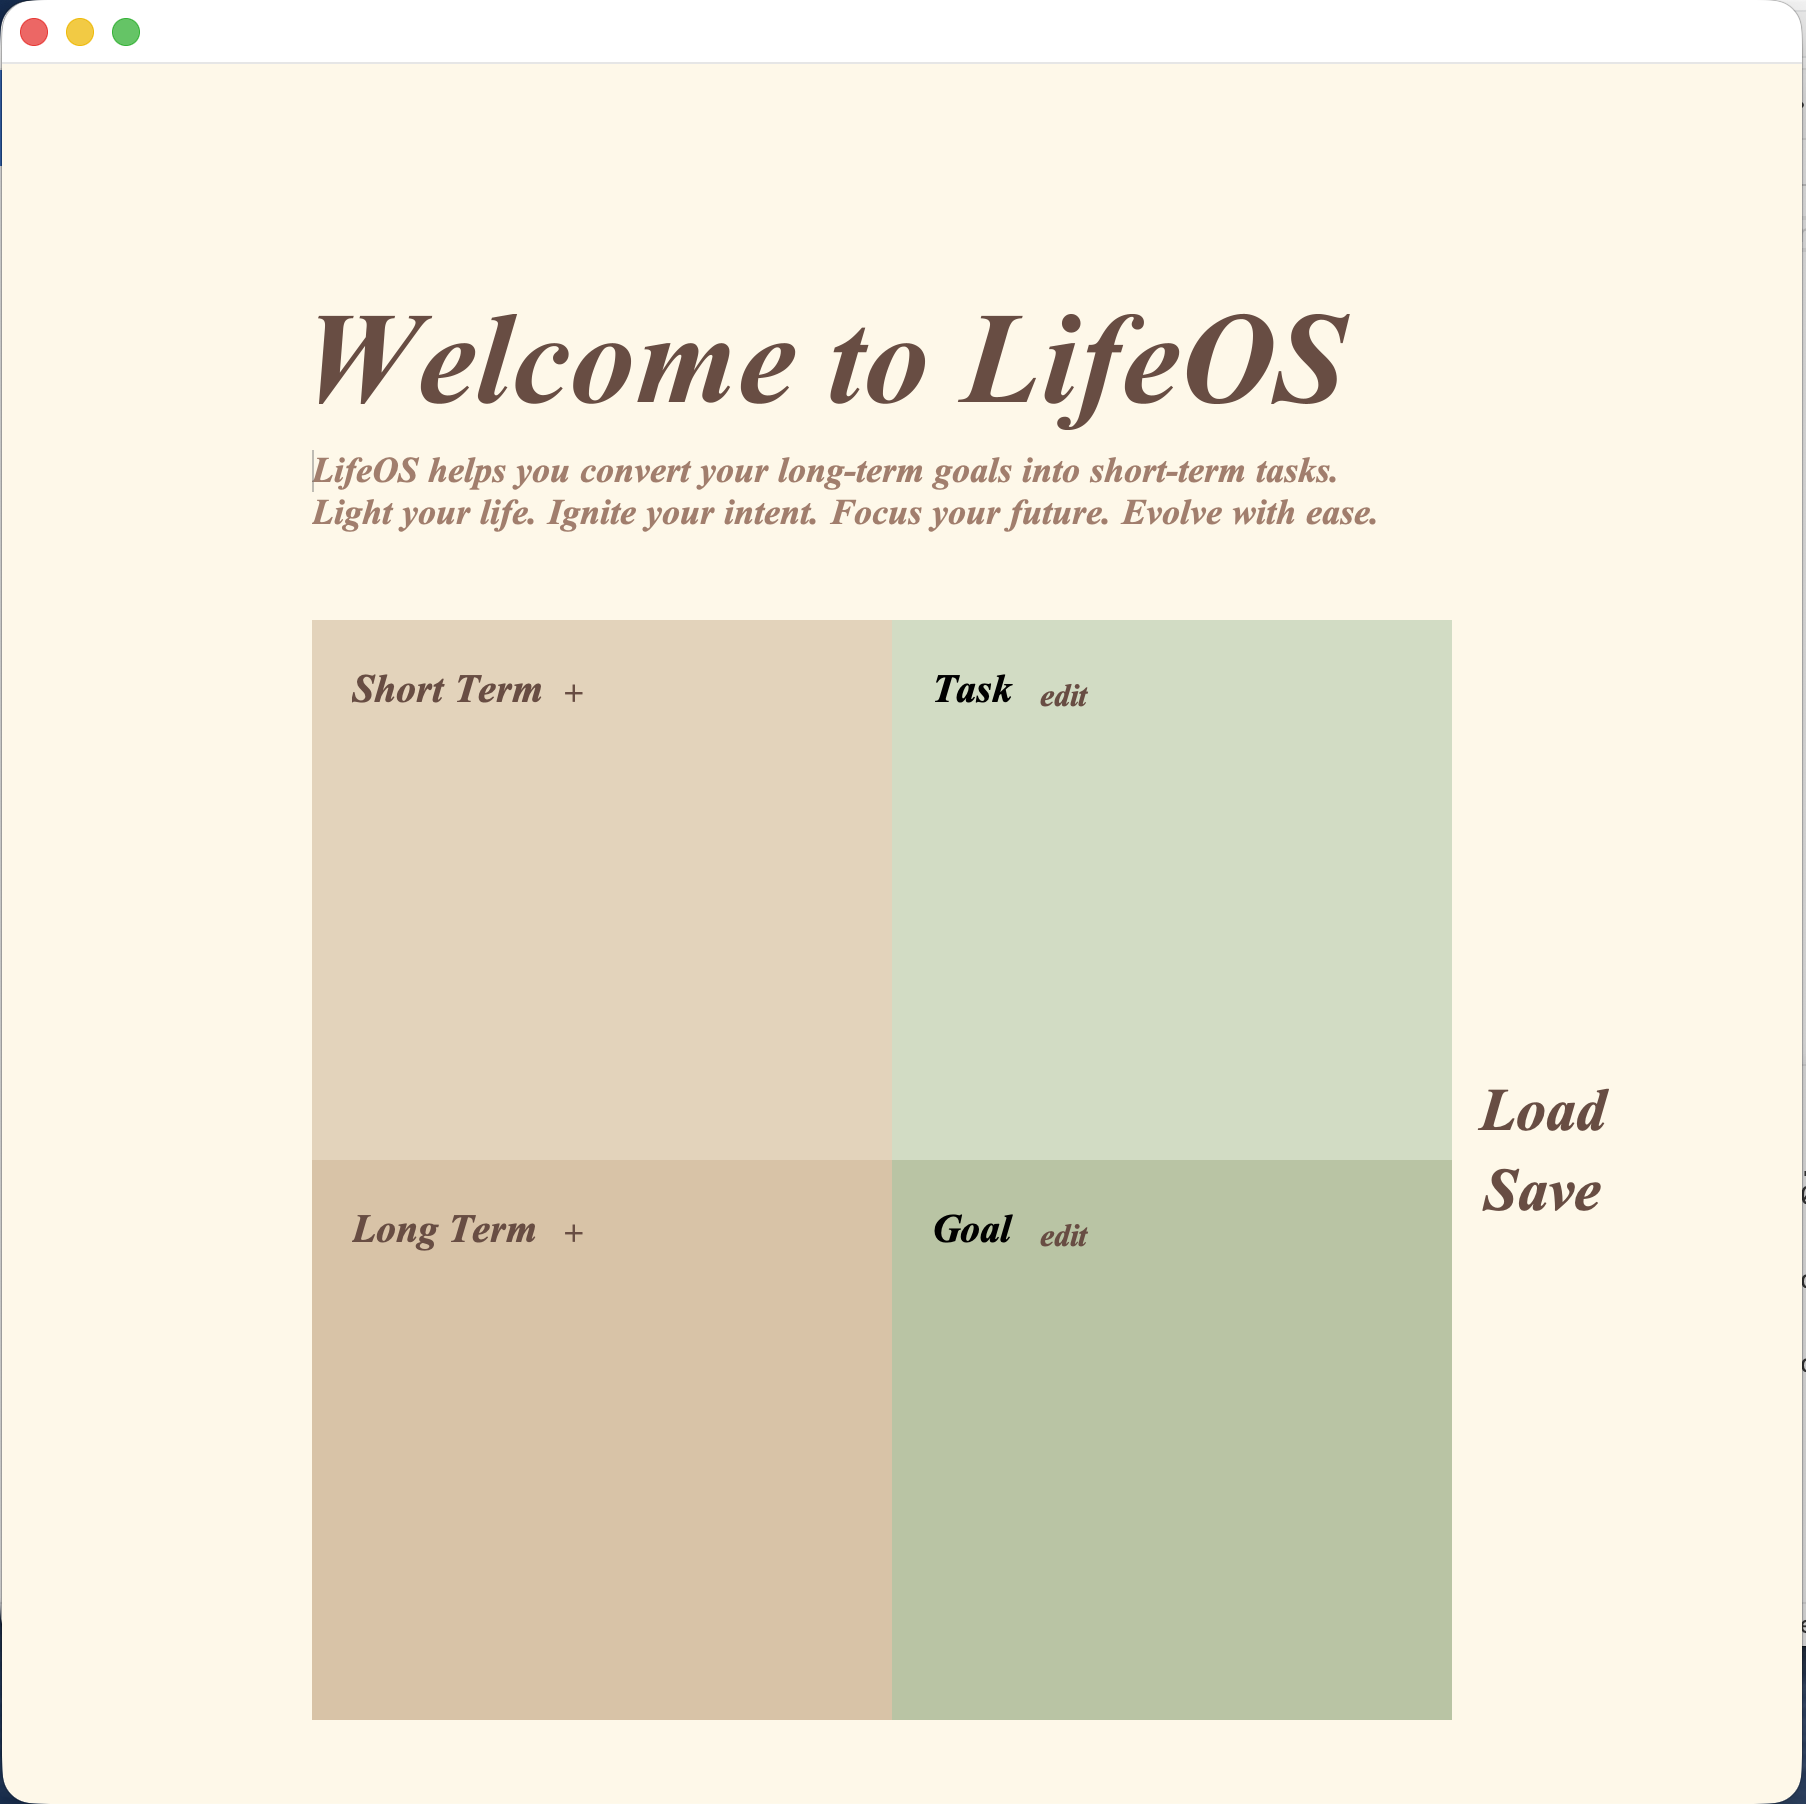
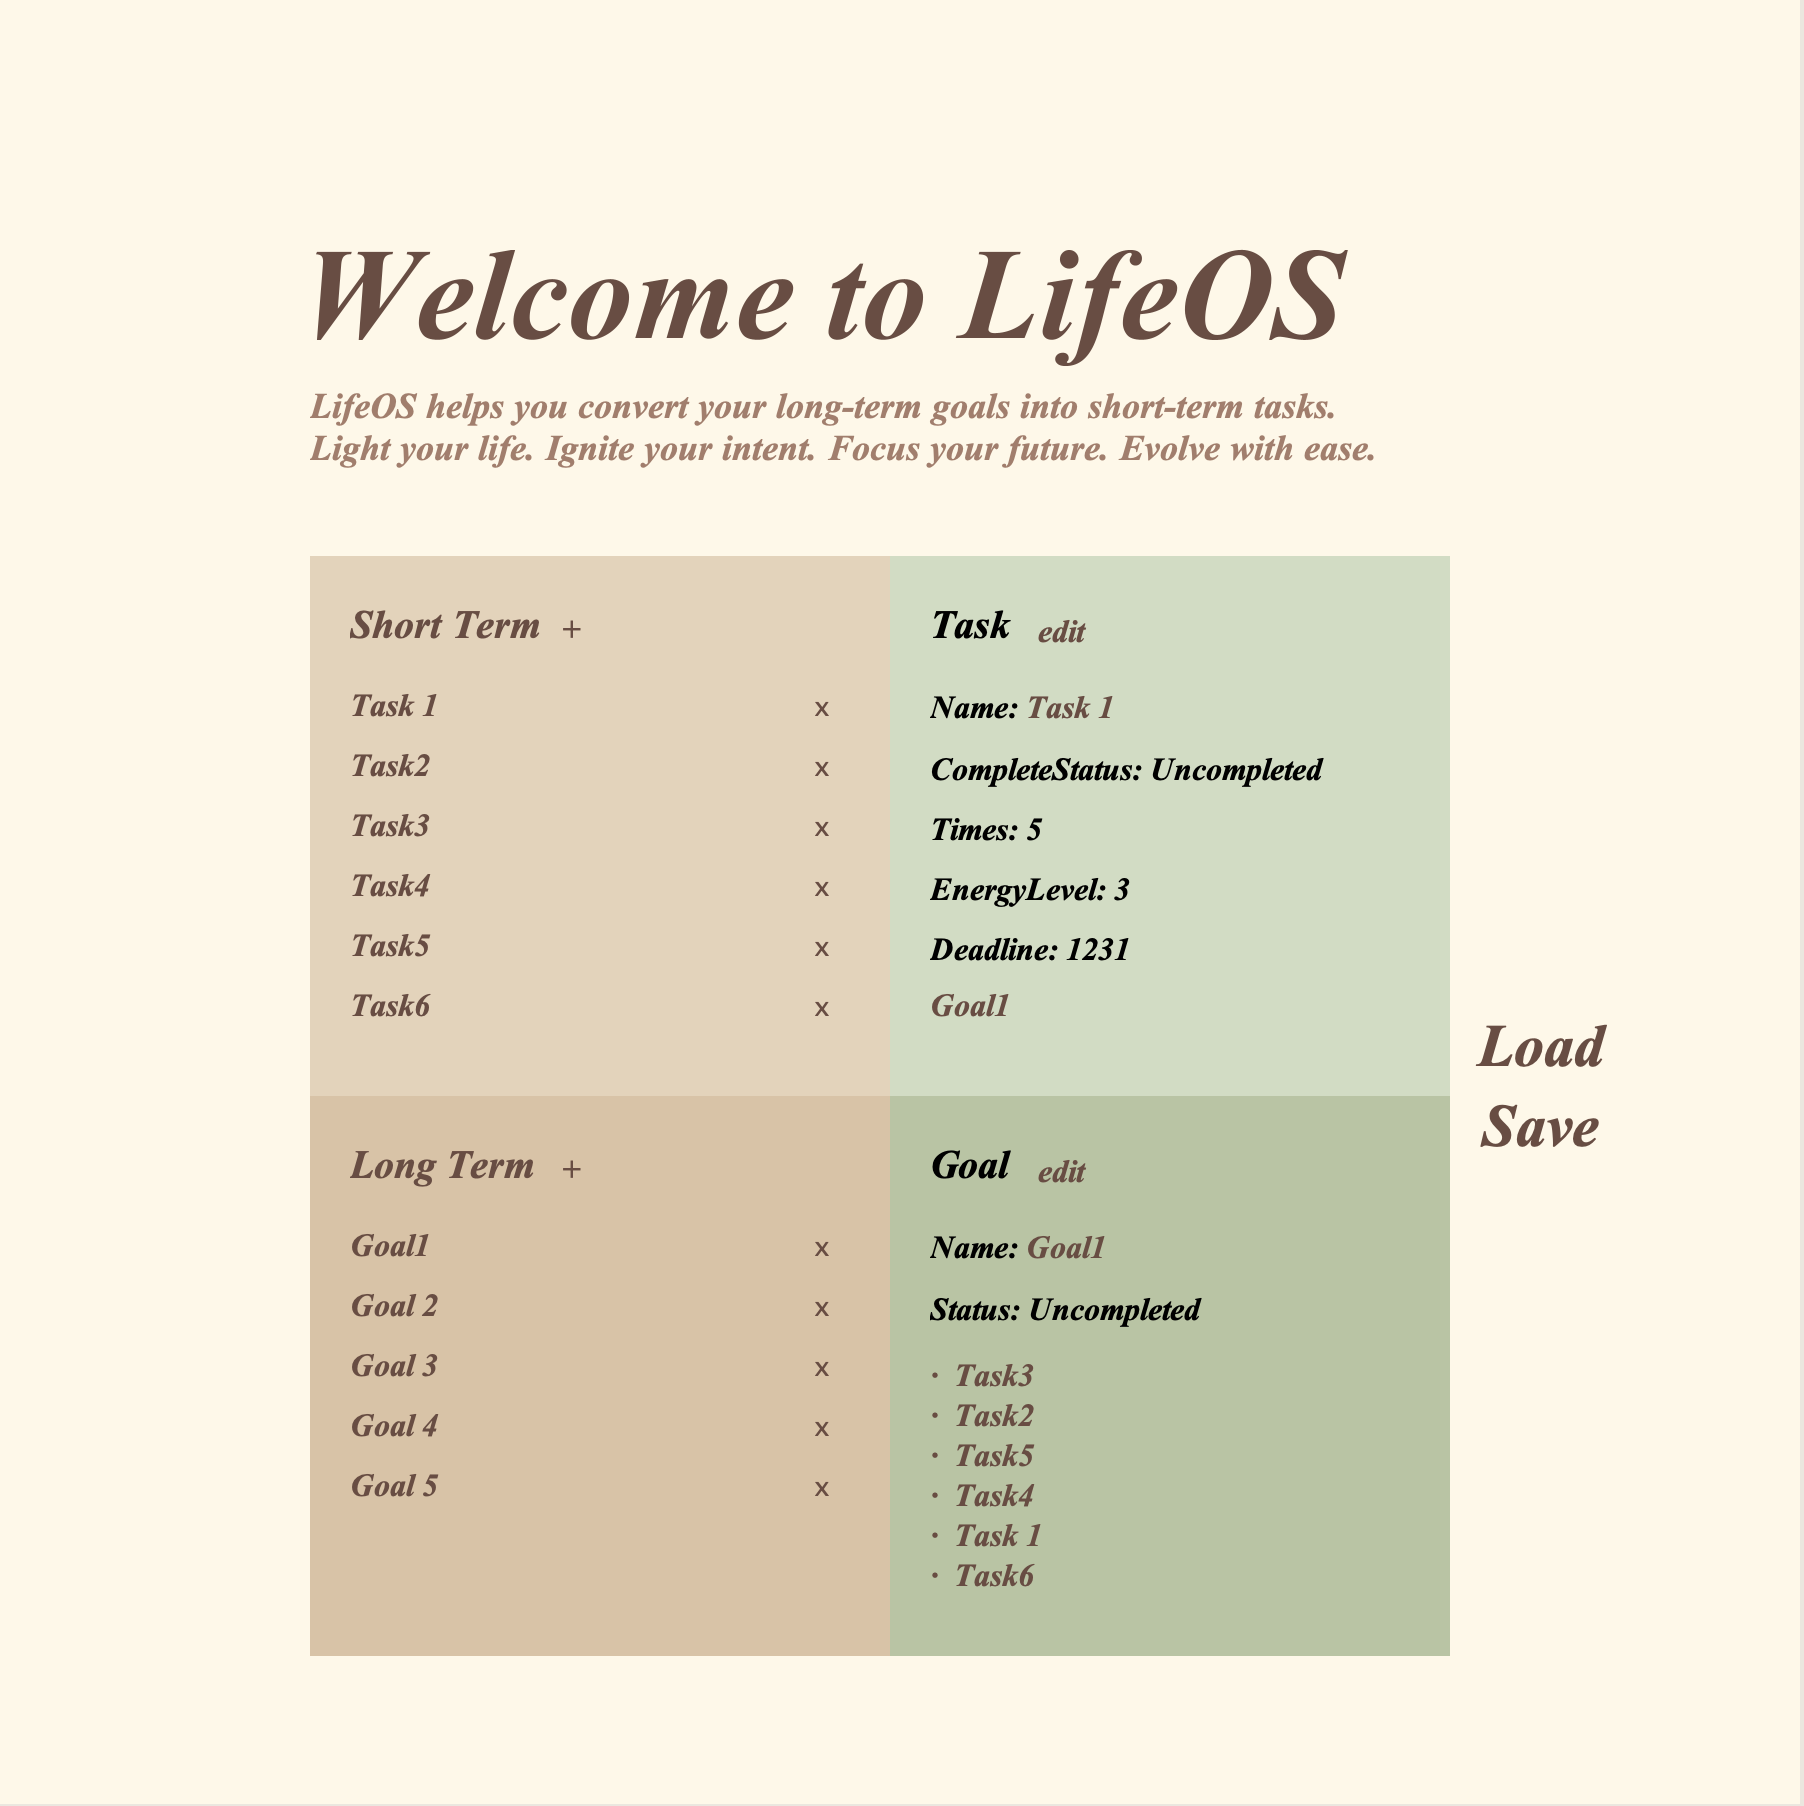
update readme and preview

diff --git a/README.md b/README.md
@@ -2,7 +2,7 @@
 
 LifeOS helps you turn long-term goals into actionable steps.
 
-By connecting your vision with daily execution, LifeOS makes progress feel clear, simple, and achievable.
+By connecting long-term goals with short-term tasks through a double linking system, LifeOS makes progress feel clear, simple, and achievable.
 
 ![LifeOS Preview](Preview.png)
 
@@ -10,7 +10,7 @@ By connecting your vision with daily execution, LifeOS makes progress feel clear
 
 Less distraction. More intention.
 
-LifeOS is built around a minimalist experience that helps you focus on what truly matters.
+LifeOS uses a low-saturation Morandi color palette and fonts with a handwritten style. The design creates a notebook-like experience where users can record their goals and tasks.
 
 
 ## Get Started
